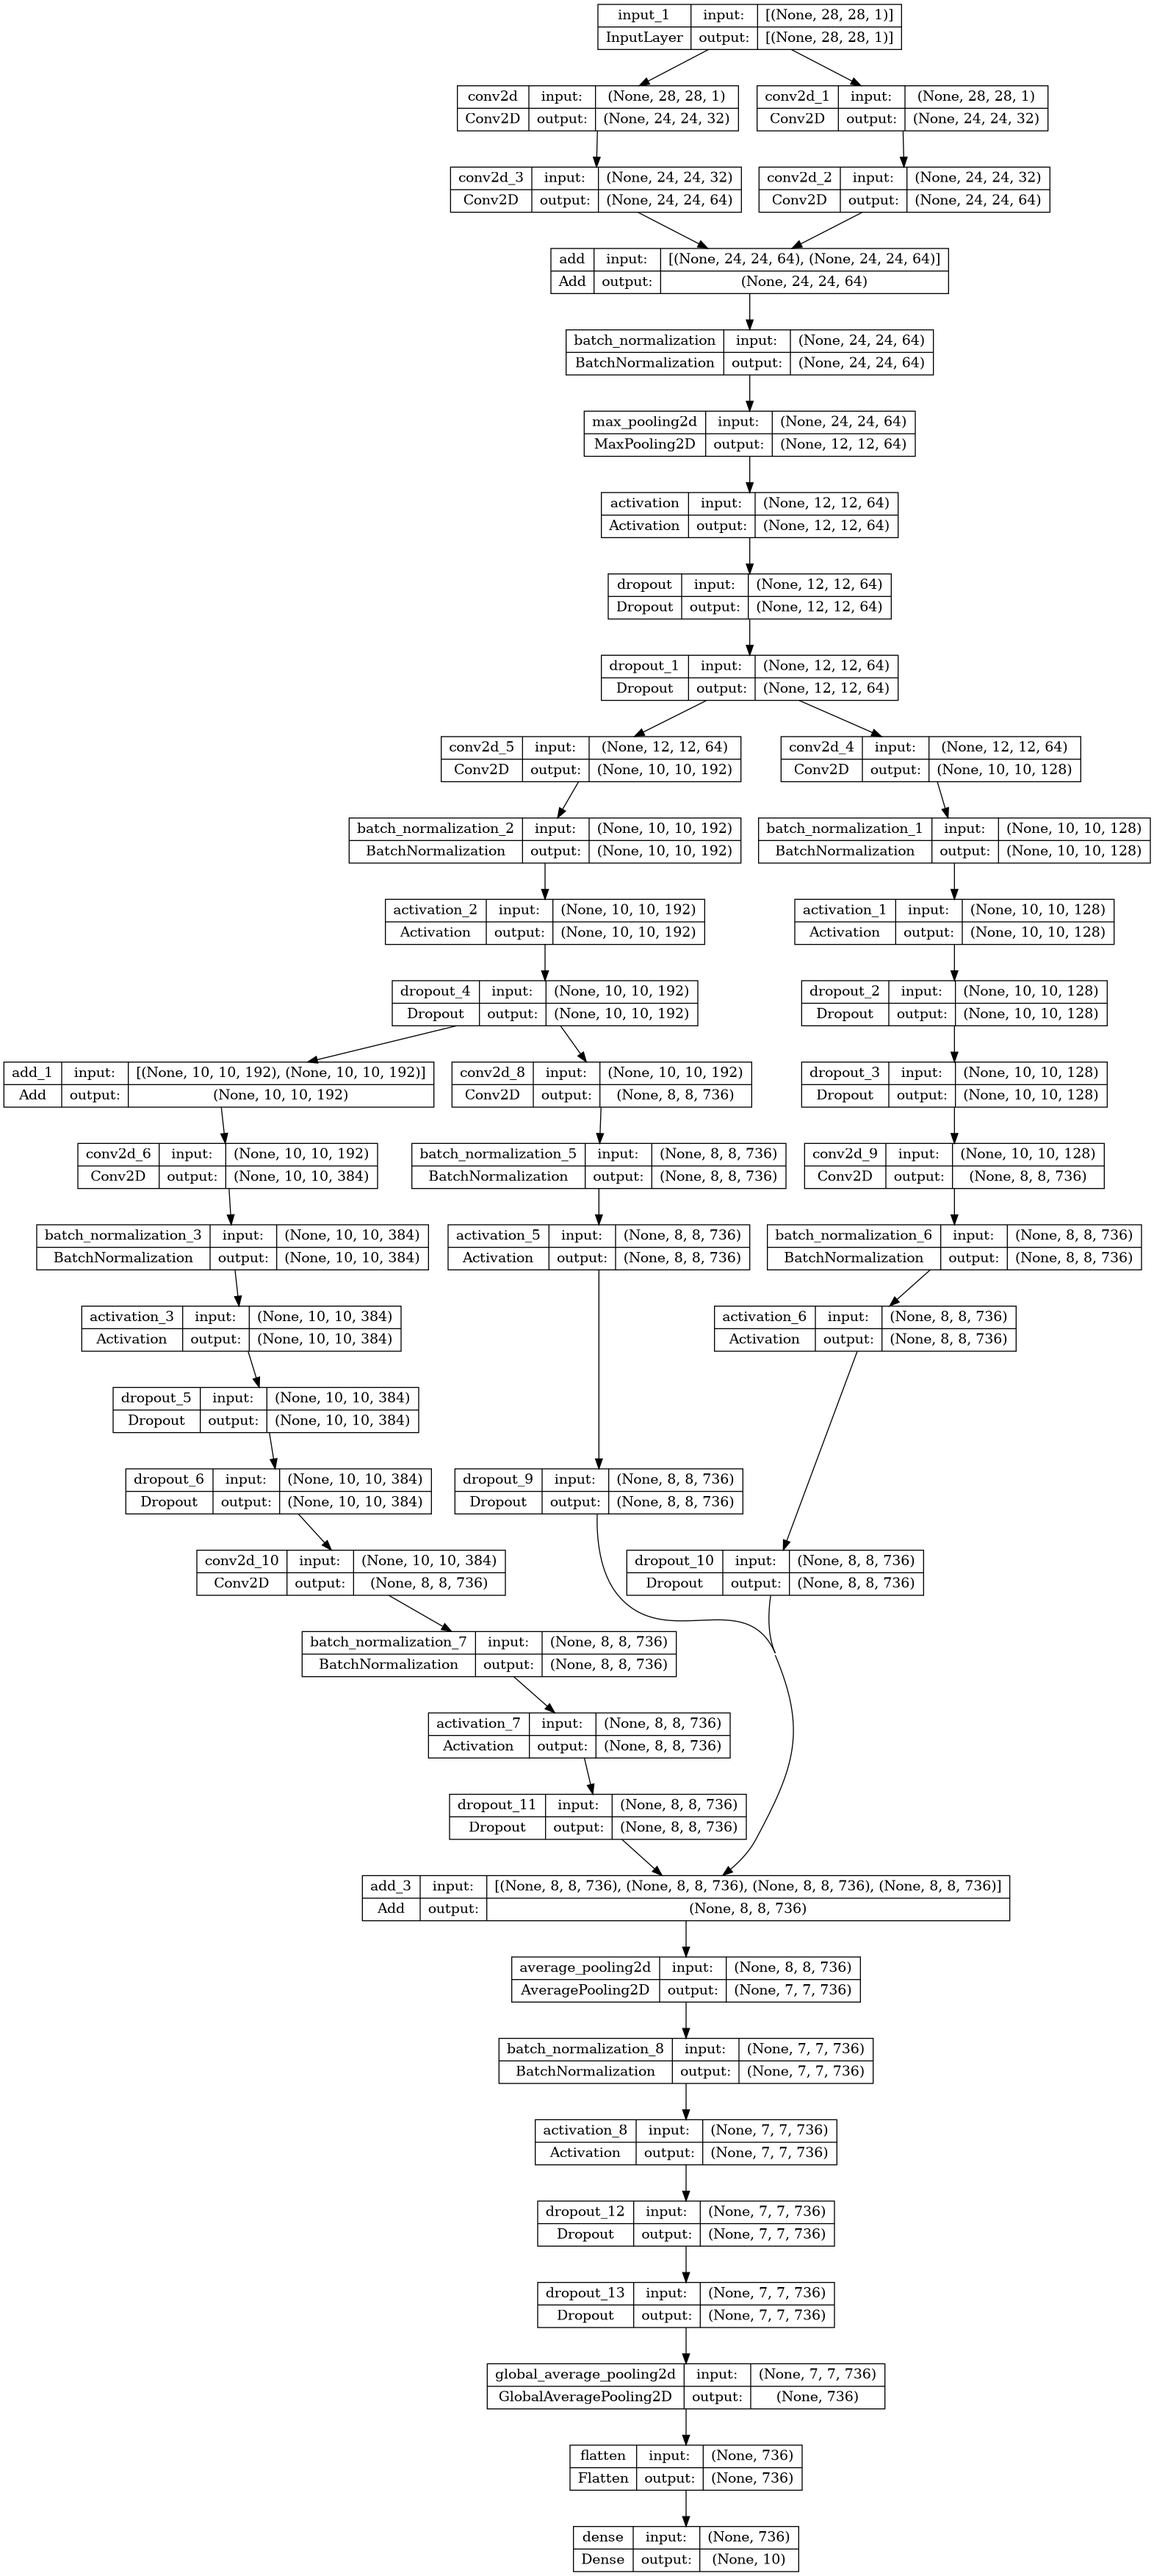
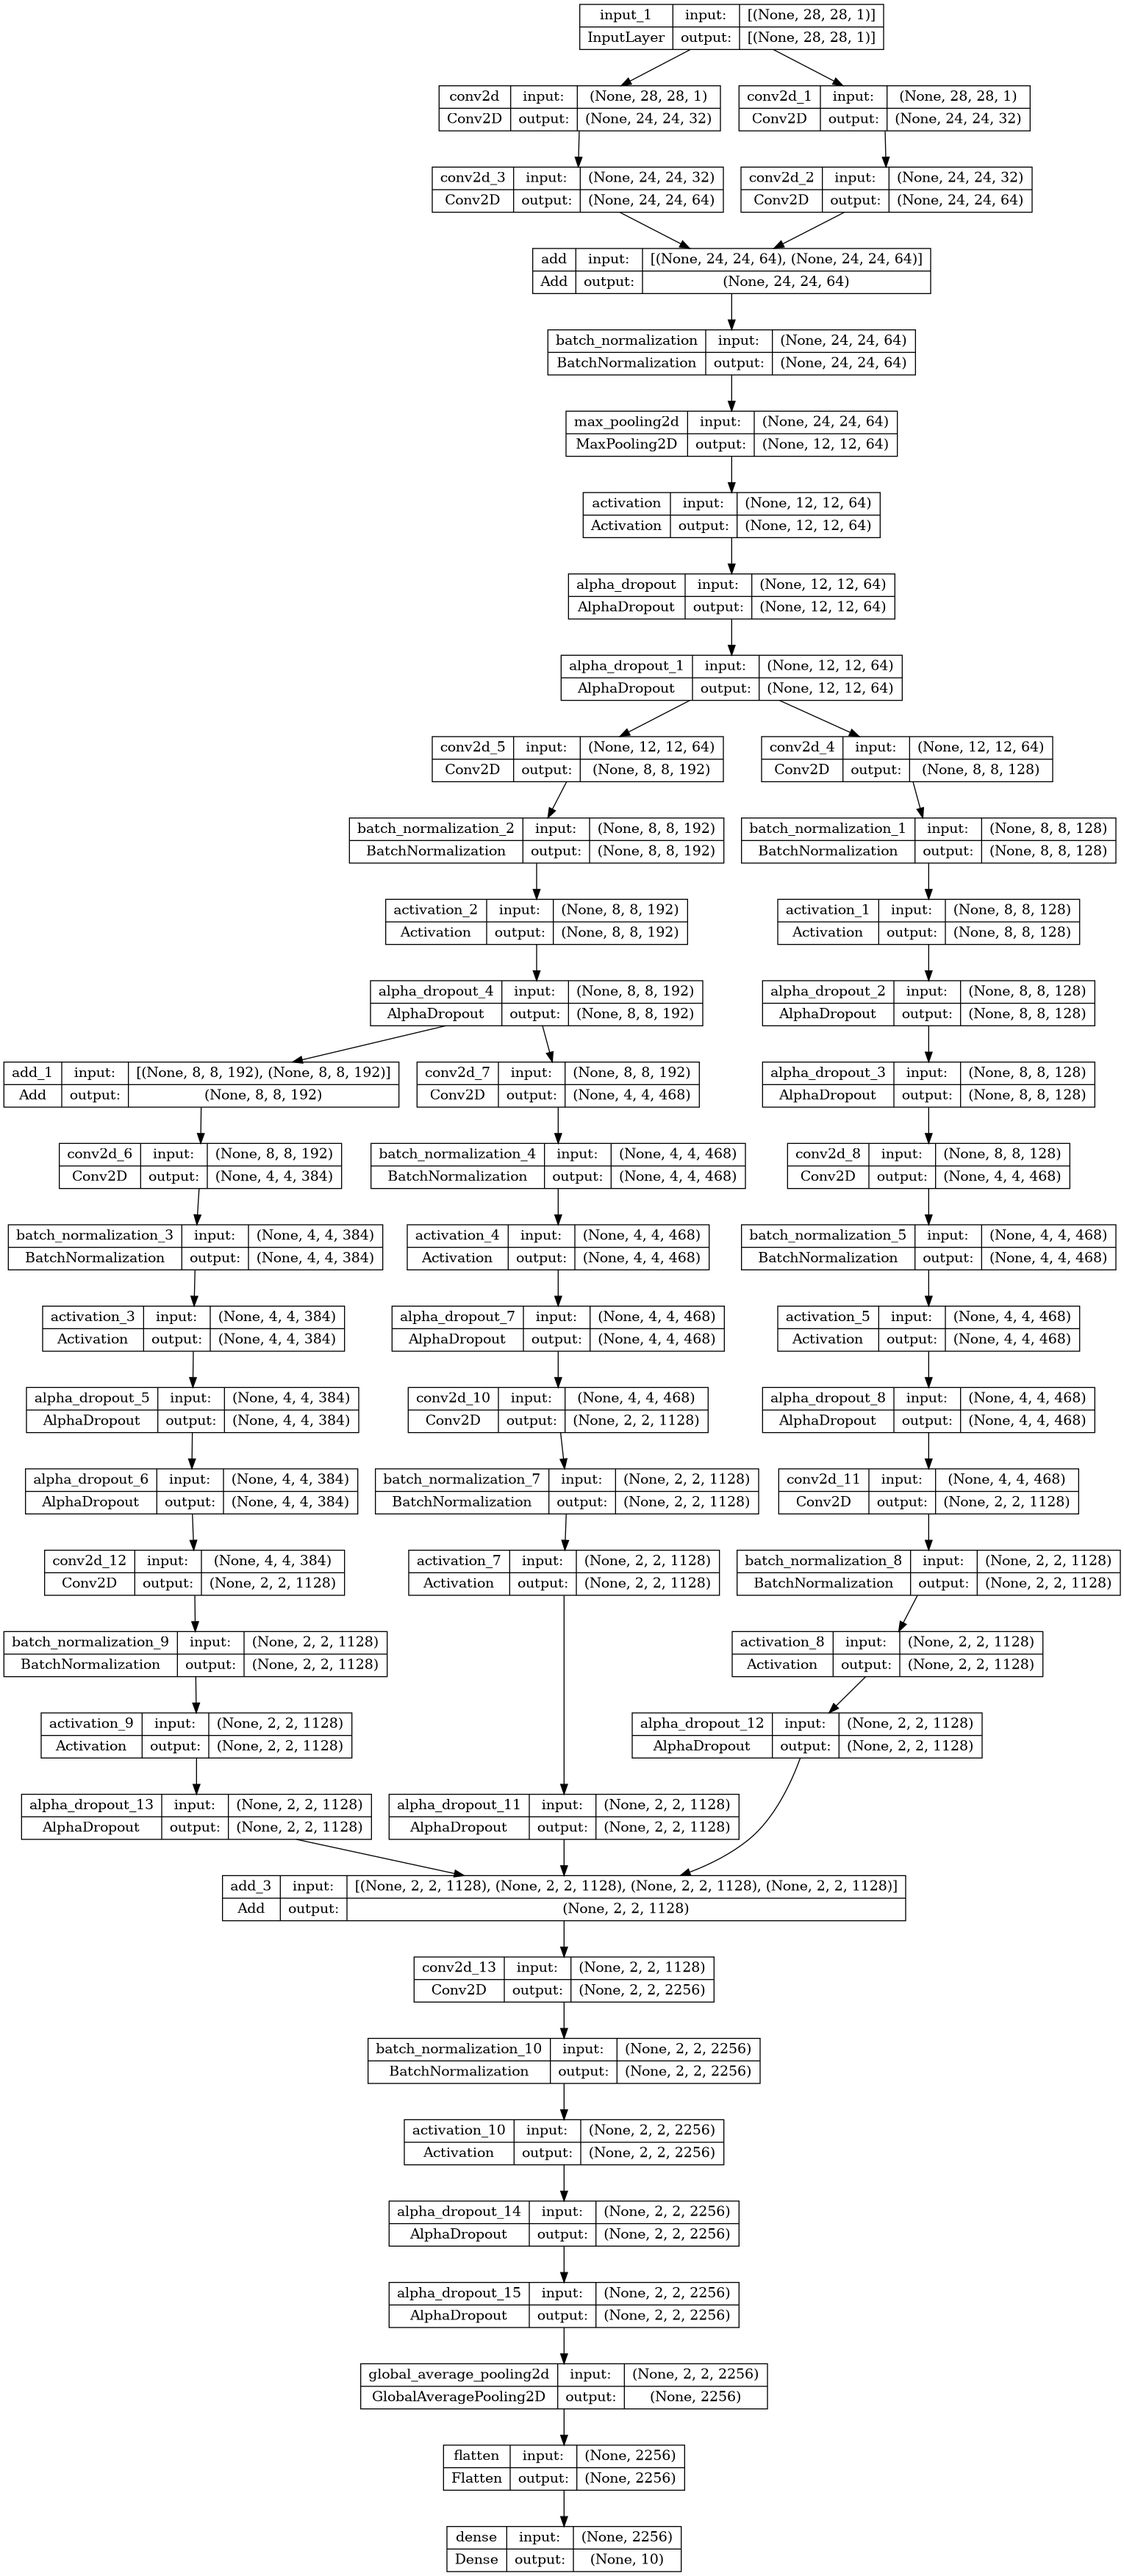
Update dropout layers to use AlphaDropout

Changed region(s): [[0.0, 0.0, 1.0, 1.0], [0.7992, 0.7155, 0.8607, 0.7466]]

diff --git a/graph_cnn/model/model.py b/graph_cnn/model/model.py
@@ -6,7 +6,7 @@ import numpy as np
 import networkx as nx
 from matplotlib import pyplot as plt
 from graph_cnn.graph.generate import create_final_graph
-from keras.layers import Conv2D,GlobalAveragePooling2D,Flatten,Dense,Input,Concatenate,Dropout,BatchNormalization,Activation,AveragePooling2D,LocallyConnected2D,MaxPooling2D,Add
+from keras.layers import Conv2D,GlobalAveragePooling2D,Flatten,Dense,Input,Concatenate,AlphaDropout,BatchNormalization,Activation,AveragePooling2D,LocallyConnected2D,MaxPooling2D,Add
 from keras.optimizers import SGD
 
 def set_seed(seed):
@@ -115,7 +115,7 @@ def create_model(
             normalized = BatchNormalization()(concatenate)
             pool = MaxPooling2D()(normalized)
             activaton = Activation(graph.nodes[node_]["activation"])(pool)
-            drop = Dropout(0.2)(activaton)
+            drop = AlphaDropout(0.2)(activaton)
             nodes[node_] = drop
             print(drop)
         else:
@@ -147,7 +147,7 @@ def create_model(
                         activation = Activation(
                             node["activation"]
                         )(normalized)
-                        drop = Dropout(0.2)(activation)
+                        drop = AlphaDropout(0.2)(activation)
                         nodes[predecessor] = drop
                     node_list.append(drop)
                     print(graph.nodes[predecessor],predecessor)
@@ -165,11 +165,11 @@ def create_model(
             activation = Activation(graph.nodes[node_]["activation"])(
                 normalized
             )
-            drop = Dropout(0.2)(activation)
+            drop = AlphaDropout(0.2)(activation)
             nodes[node_] = drop
             print(concat)
-        dropout_prob = random.uniform(0.2, 1)
-        nodes[node_] = Dropout(dropout_prob)(nodes[node_])
+        AlphaDropout_prob = random.uniform(0.2, 1)
+        nodes[node_] = AlphaDropout(AlphaDropout_prob)(nodes[node_])
     node_s = [nodes[node] for node in graph.nodes() if graph.out_degree(node) == 0]
     if use_mean:
         req_shape = max([x.shape[-1] for x in node_s])*2
@@ -191,7 +191,7 @@ def create_model(
             activation = Activation(graph.nodes[node]["activation"])(
                 normalized
             )
-            drop = Dropout(0.2)(activation)
+            drop = AlphaDropout(0.2)(activation)
             conc = Concatenate()([activation, drop])
             nodes[node_] = conc
     if include_aux:
